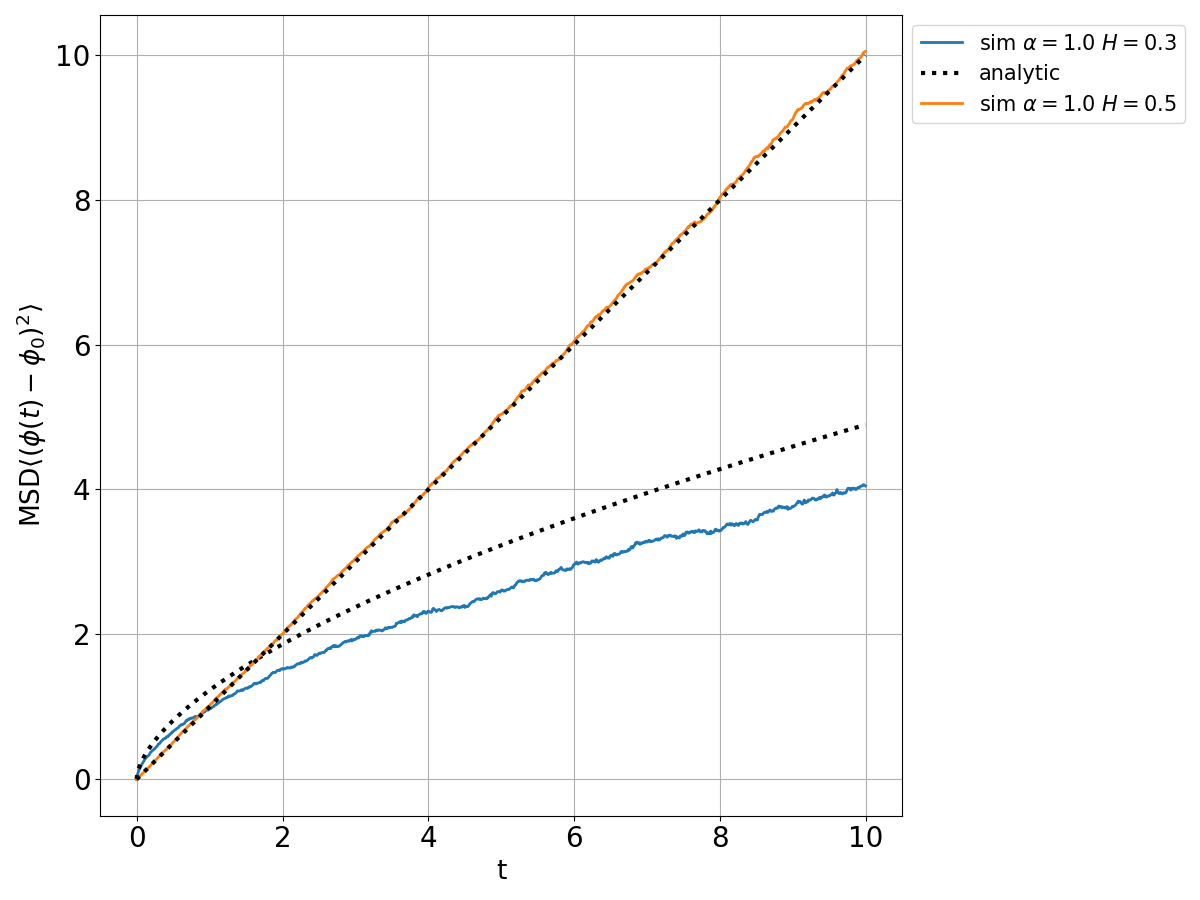
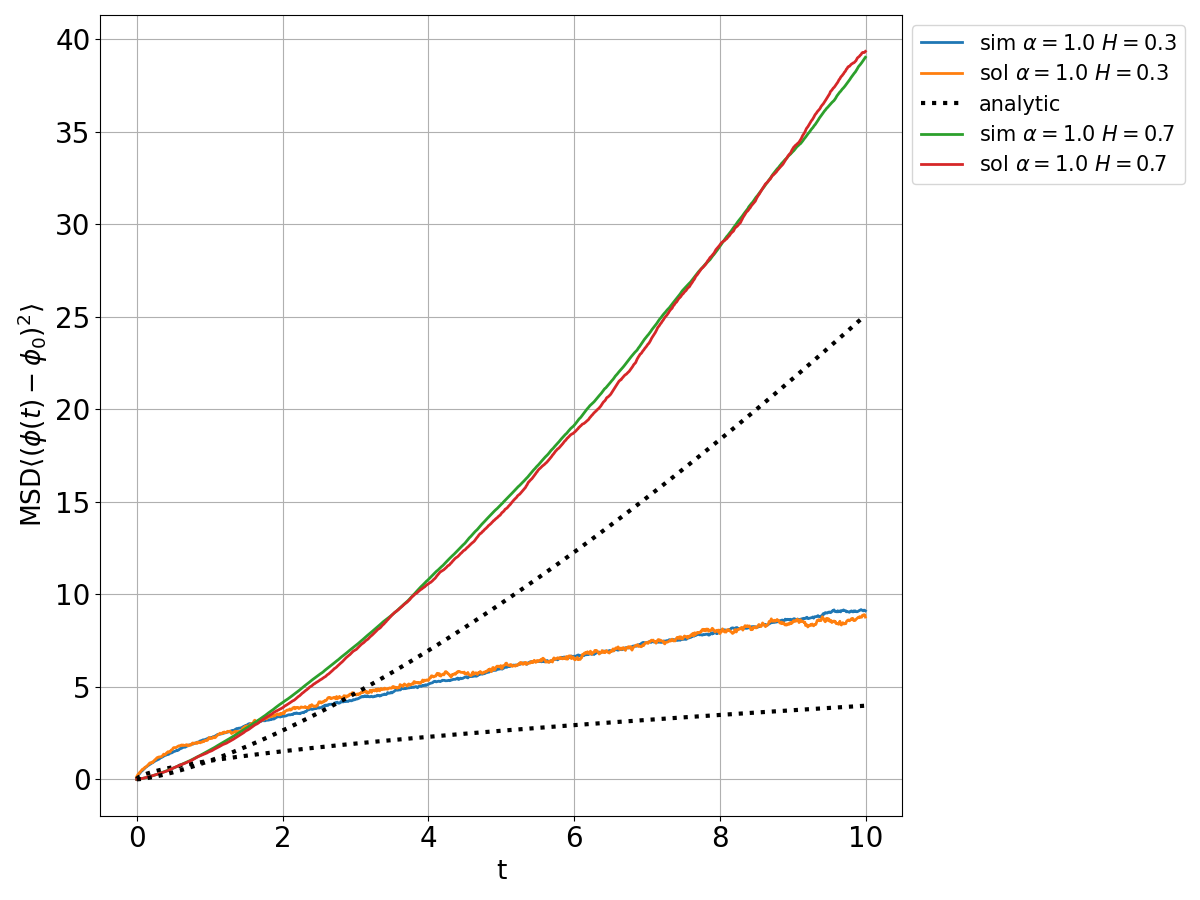
analisys of fBm.

diff --git a/scripts/plot_phi_alpha1.py b/scripts/plot_phi_alpha1.py
@@ -7,7 +7,7 @@ import utilities
 
 alphas = [1.]
 # H = None
-Hs = [0.3, 0.5]
+Hs = [0.3,  0.7]
 realizations = 1000
 Tf = 10.
 h = 0.01
@@ -20,6 +20,7 @@ envs = utilities.read_envs(alphas, sets, Tf, h, realizations, Hs)
 PLOTTING
 msd, mean and variance are plotted in the same figure for different value of alpha while a figure is created for each alpha containing its pdf at three different times.
 """
+
 fig1, ax1 = plt.subplots(figsize=(12,9))
 fig2, ax2 = plt.subplots()
 fig3, ax3 = plt.subplots()
@@ -33,7 +34,7 @@ for alpha_index, alpha in enumerate(alphas):
         env = envs[env_index]
         label_an = alpha_index == 0 and H_index == 0
         plotting.plot_msd(ax1, env, 'phi')
-        # plotting.plot_msd(ax1, env, 'phi_sol')
+        plotting.plot_msd(ax1, env, 'phi_sol')
         plotting.plot_msd(ax1, env, 'an', label_an=label_an)
 
         # plotting.plot_moment(ax2, env, 'phi', 'var')
@@ -45,12 +46,12 @@ for alpha_index, alpha in enumerate(alphas):
         # plotting.plot_moment(ax3, env, 'phi_sol', 'mean')
         # plotting.plot_moment(ax3, env, 'an', 'mean')
 
-        # fig4, ax4 = plt.subplots()
-        # plotting.plot_pdf(ax4, env, time = int(Tf/(4*h)))
-        # plotting.plot_pdf(ax4, env, time = int(Tf/(2*h)))
-        # plotting.plot_pdf(ax4, env, time = int((Tf/h)-1))
-        # fig4.tight_layout()
-        # fig4.savefig(f"plots/pdf/phipdf_r_{env.realizations}_Tf_{Tf}_h_{h}_alpha_{env.alpha}.png", dpi=100)
+        fig4, ax4 = plt.subplots()
+        plotting.plot_pdf(ax4, env, time = int(Tf/(4*h)))
+        plotting.plot_pdf(ax4, env, time = int(Tf/(2*h)))
+        plotting.plot_pdf(ax4, env, time = int((Tf/h)-1))
+        fig4.tight_layout()
+        fig4.savefig(f"plots/pdf/phipdf_r_{env.realizations}_Tf_{Tf}_h_{h}_alpha_{env.alpha}_H_{env.H}.png", dpi=100)
 
 fig1.tight_layout()
 fig1.savefig(f"plots/msd/phicorr_r_{env.realizations}_Tf_{Tf}_h_{h}.png", dpi=100)

diff --git a/src/plotting.py b/src/plotting.py
@@ -39,15 +39,25 @@ def phi_propagator_ansatz(phi, time, alpha, phi0=0):
     
     return factor*np.exp(argument)
 
+def phi_fBm_propagator_ansatz(phi, time, H, phi0=0):
+    
+    factor = np.sqrt( 1 / (2*np.pi*(time**(2*H))) )
+    
+    argument = - ((phi - phi0)**2) / (2*time**(2*H))
+    
+    return factor*np.exp(argument)
+
 def phi_msd(time, alpha):
     # msd_anl = ((gamma(2*H)**2)/(H*(gamma(H+1/2)**2)))*time**(alpha)
     return (2/gamma(alpha+1))*time**(alpha)
 
 def phi_fBm_msd(time, H):
-    return (1/(2*H*(gamma(H+1/2)**2)))*(time**(2*H))
+    # return (1/(2*H*(gamma(H+1/2)**2)))*(time**(2*H))
+    return (time**(2*H))
 
 def phi_mean(time):
     return np.zeros(len(time))
+
 def phi_var(time, alpha):
     return (2*(time**alpha))/gamma(alpha+1)
 
@@ -157,7 +167,8 @@ def plot_pdf(ax, env, time):
 
     # Ansatz
     phi_range = np.arange(np.min(trajectories_points), np.max(trajectories_points), 1e-3)
-    propagator = phi_propagator_ansatz(phi_range, time*env.h, env.alpha)
+    # propagator = phi_propagator_ansatz(phi_range, time*env.h, env.alpha)
+    propagator = phi_fBm_propagator_ansatz(phi_range, time*env.h, env.H)
     label = None
     if time == int(env.Tf/(4*env.h)):
         label = 'ansatz'
@@ -174,8 +185,8 @@ def plot_pdf(ax, env, time):
     hist_fit = data_analysis.gauss(bin_centres, *coeff) 
 
     ax.bar(bin_centres, hist, width=bin_edges[1] - bin_edges[0], alpha=0.5, zorder=0)
-    ax.plot(bin_centres, hist_fit, lw=2, label=f'{time}', zorder=1)
+    ax.plot(bin_centres, hist_fit, lw=2, label=f'{time*env.h}', zorder=1)
     
-    ax.set_title(rf'$\alpha=${env.alpha}')
+    ax.set_title(rf'$\alpha=${env.alpha}, $H=${env.H}')
     ax.legend(fontsize = legend_size)
 

diff --git a/scripts/plot_phi.py b/scripts/plot_phi.py
@@ -18,6 +18,7 @@ envs = utilities.read_envs(alphas, sets, Tf, h, realizations)
 PLOTTING
 msd, mean and variance are plotted in the same figure for different value of alpha while a figure is created for each alpha containing its pdf at three different times.
 """
+
 fig1, ax1 = plt.subplots(figsize=(12,9))
 fig2, ax2 = plt.subplots()
 fig3, ax3 = plt.subplots()

diff --git a/src/world.py b/src/world.py
@@ -37,6 +37,8 @@ class angular_fbm():
         # Noise amplitude
         if self.alpha == 1:
             self.A_H = 1#/np.sqrt(2)
+            self.A_H = 1/np.sqrt(H*(2*H-1)*gamma(2*H-1))
+
         else:
             self.A_H = 1/np.sqrt(H*(2*H-1)*gamma(2*H-1))
         
